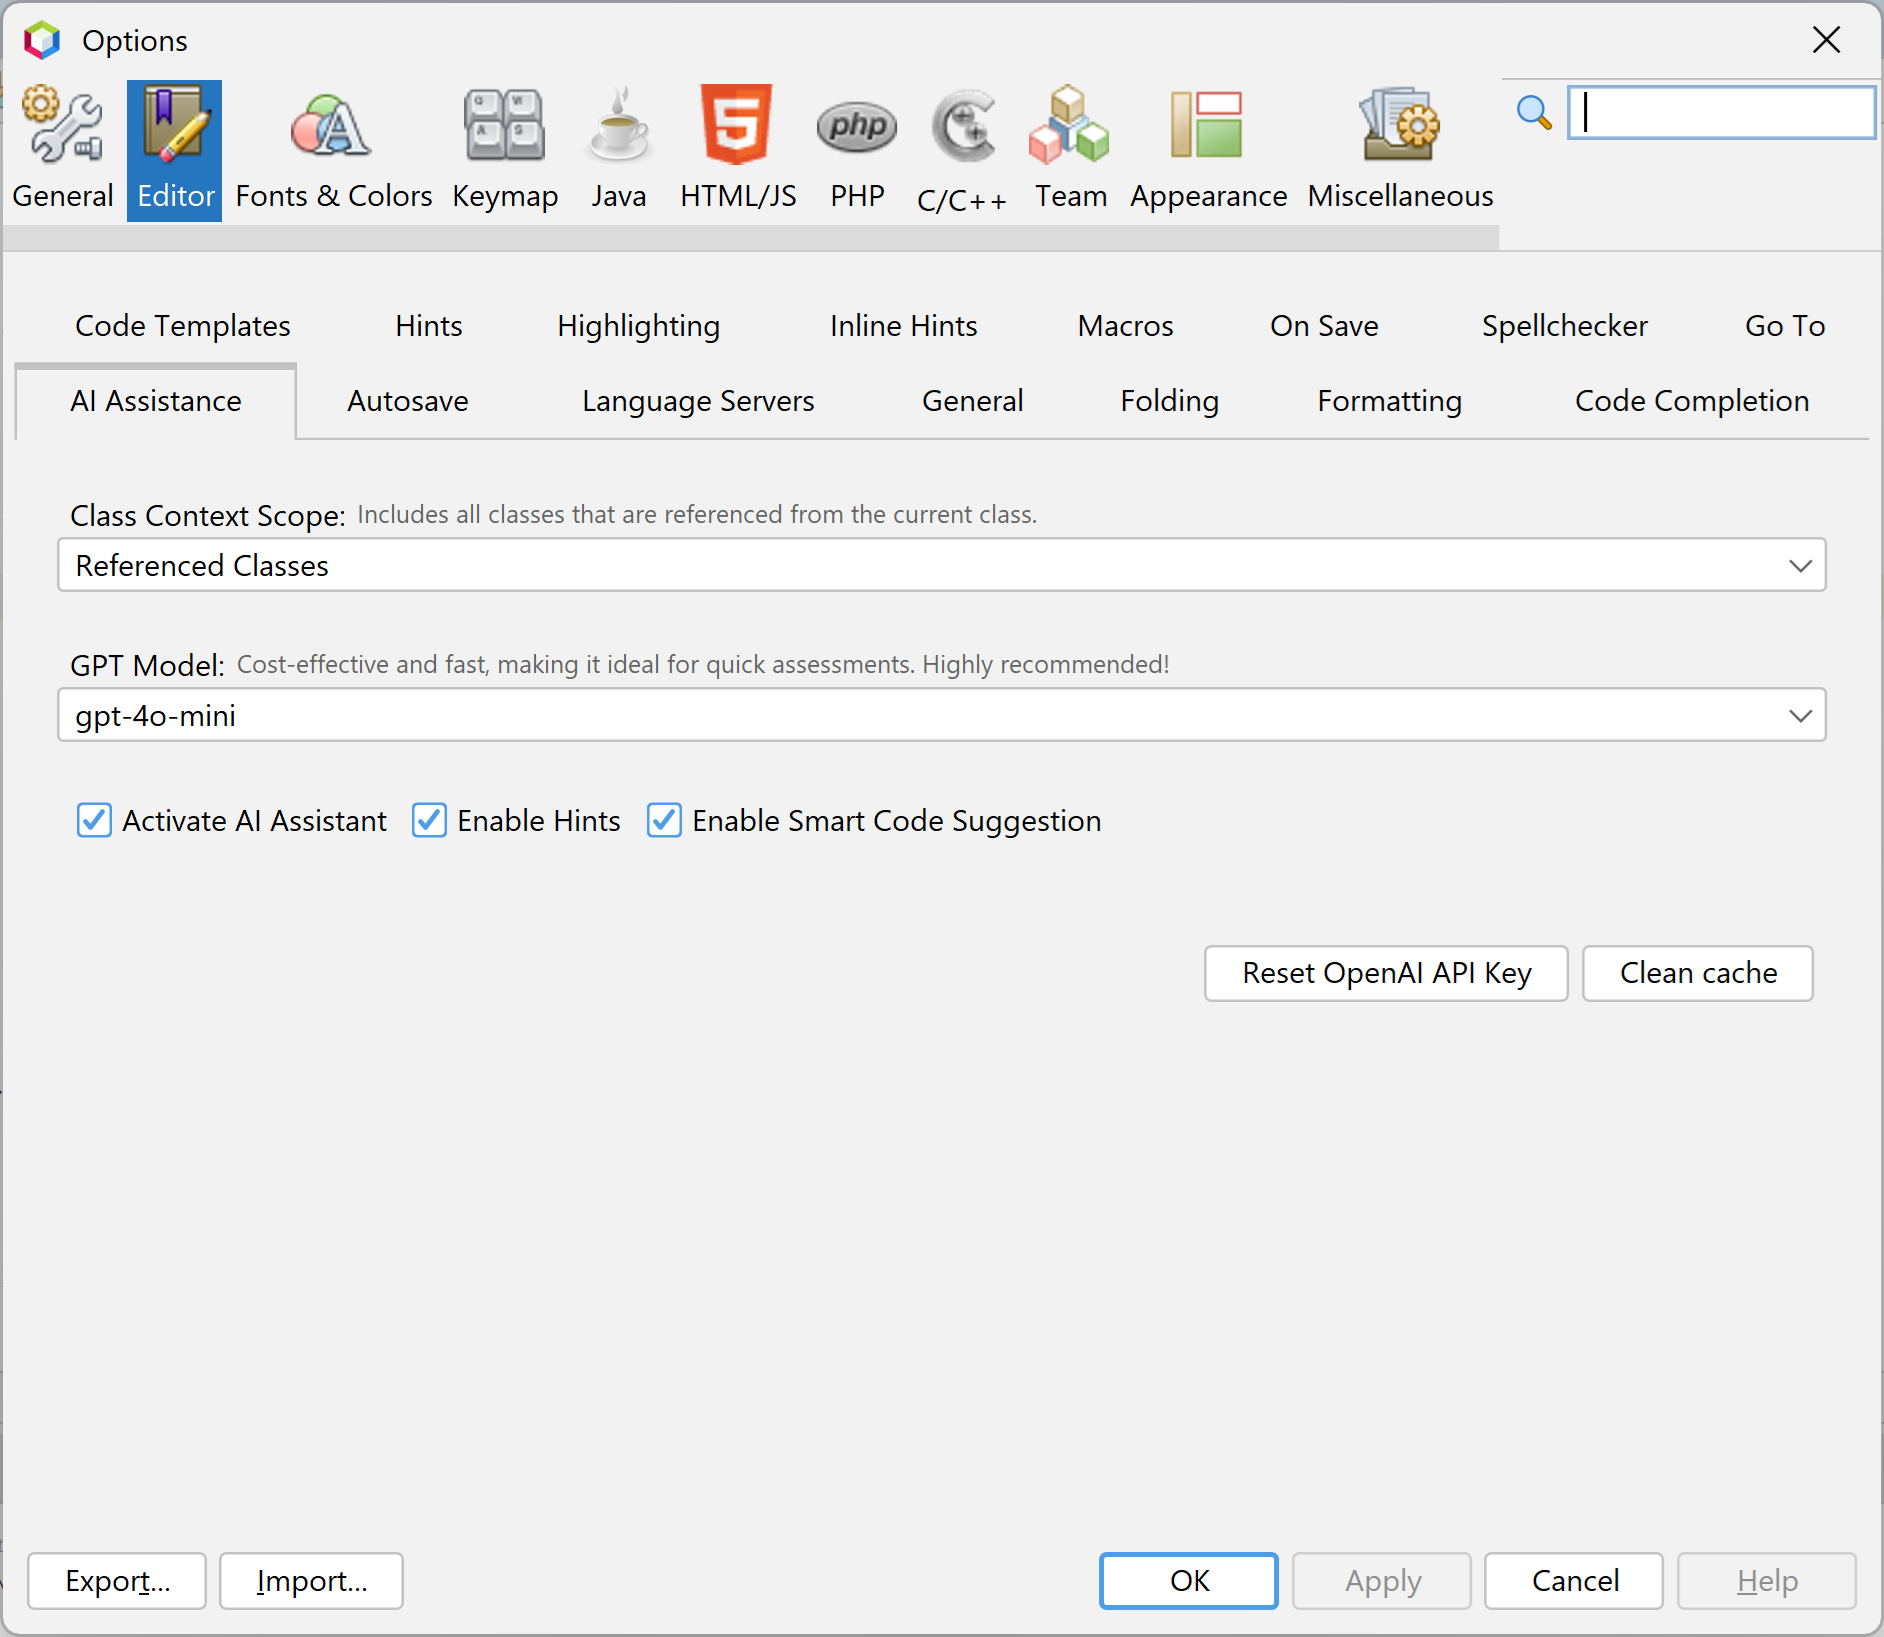
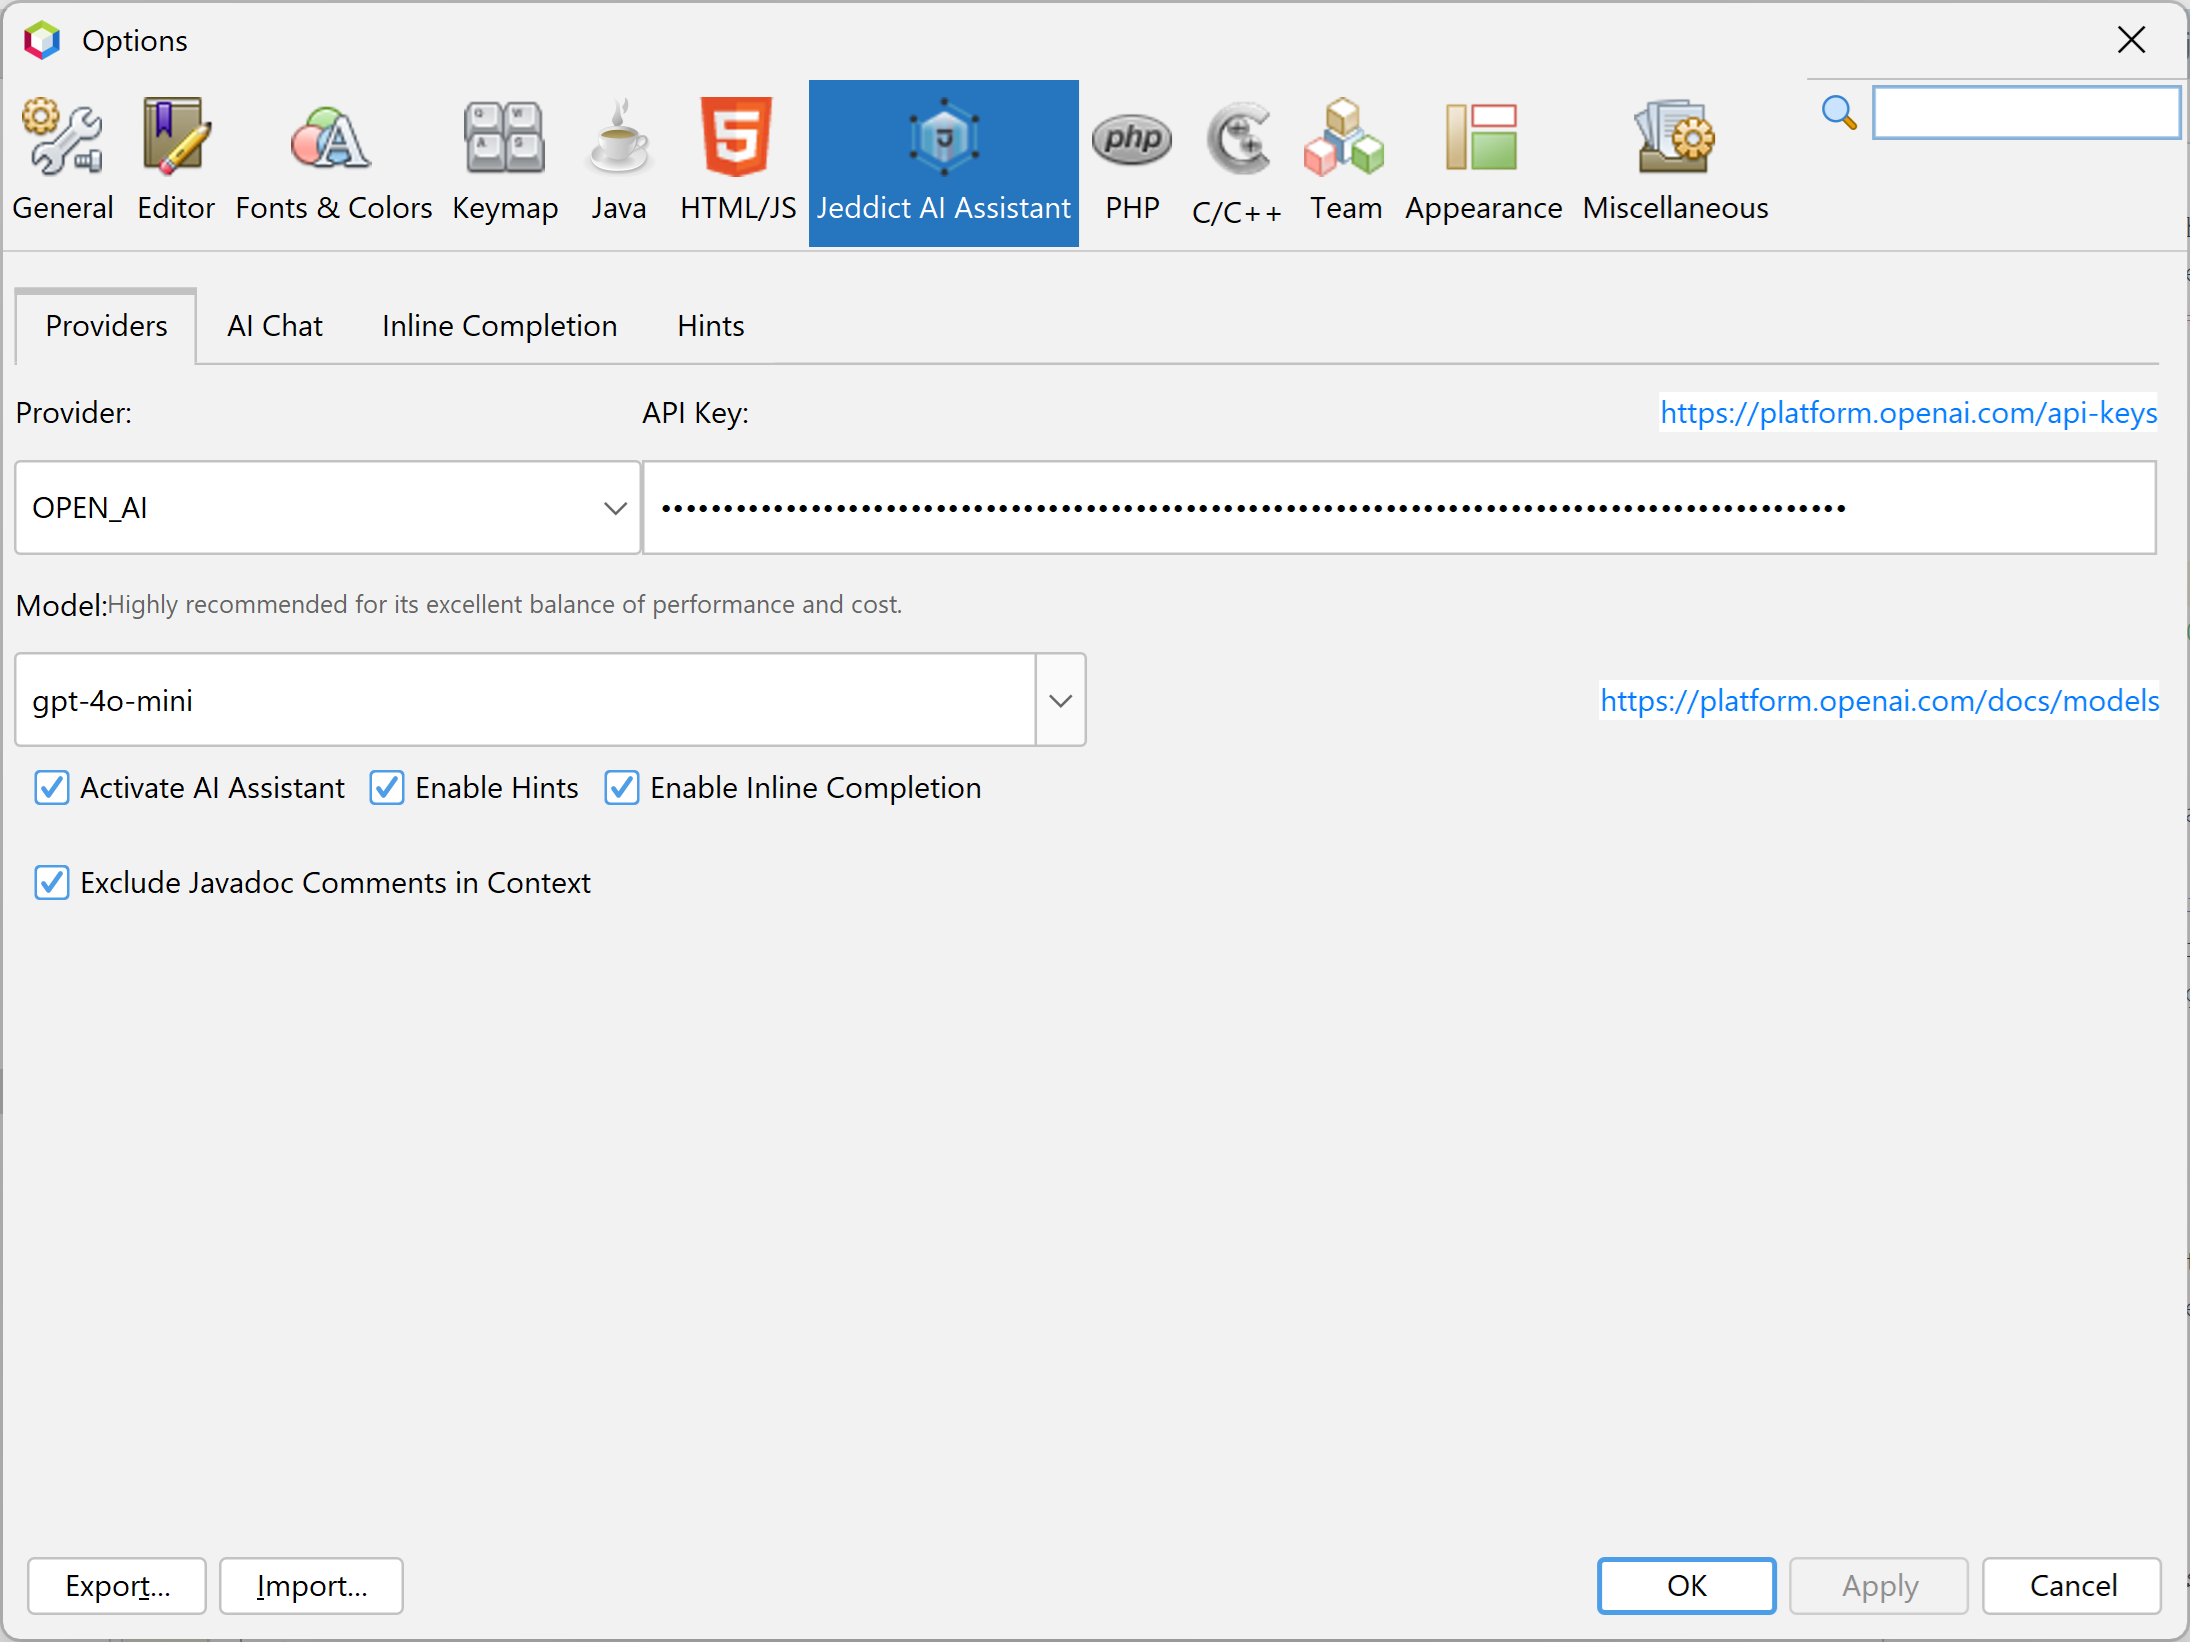
Jeddict AI Assistant settings docs for v1.8

diff --git a/tutorial/AI.html b/tutorial/AI.html
@@ -11,22 +11,11 @@
         <br>
         Click the link below to access the download page:
     </p><p>
-    <em>Note:</em> This plugin is not included with the bundled Jeddict plugin nor does it depend on it. You will need to install it independently to access its features.
-</p><p>
+        <em>Note:</em> This plugin is not included with the bundled Jeddict plugin nor does it depend on it. You will need to install it independently to access its features.
+    </p><p>
         <a href="https://plugins.netbeans.apache.org/catalogue/?id=103" class="btn btn-primary">Download Now</a>
     </p>
 
-    <h3>Configuration</h3>
-    <p>The plugin supports configurable AI models and keys, allowing developers to seamlessly integrate their OpenAI accounts. The plugin searches for the API key and model in both environment variables and system properties, ensuring flexibility in how the integration is managed.</p>
-    <p>Here are the supported configurations:</p>
-    <ul>
-        <li><strong>"OPENAI_API_KEY"</strong> environment variable to set the OpenAI API key.</li>
-        <li>Alternatively, <strong>"openai.api.key"</strong> system property to set the OpenAI API key.</li>
-        <li><strong>"OPENAI_MODEL"</strong> environment variable to set the OpenAI model.</li>
-        <li>Alternatively, <strong>"openai.model"</strong> system property also allows setting the OpenAI model.</li>
-    </ul>
-    <p>If the OpenAI API key is not explicitly configured via environment variables or system properties, the plugin will first check the user preferences for previously stored values. If the API key is still not found, the plugin will <b>prompt the user to enter the API key manually through an input dialog</b>. The entered API key will be saved in preferences for future use, ensuring a seamless experience during subsequent sessions.</p>
-    <p>By default, if no specific model is configured via environment variables or system properties, the plugin will use the <strong>gpt-4o-mini</strong> model as a fallback, ensuring that the functionality remains available even without explicit user configuration.</p>
 
 
 
@@ -51,14 +40,14 @@
     <div class="mb-4">
         <h4>Javadoc Creation</h4>
         <p>Automatically generate Javadoc for any method, class, or interface using AI assistance, ensuring comprehensive and well-structured documentation based on the code context.</p>
-        <p><strong>How to use:</strong> Highlight any class and press the hint: <em>"AI: Create Javadoc for {0} using assistance"</em></p>
+        <p><strong>How to use:</strong> Highlight any class and press the hint: <em>"AI: Create Javadoc using assistance"</em></p>
         <img src="jeddict-ai/resource/2-AI-powered%20Javadoc%20Creation.gif" alt="Javadoc Creation" class="feature-img" width="800" />
     </div>
 
     <div class="mb-4">
         <h4>Javadoc Improvement</h4>
         <p>Improve and enhance existing Javadoc comments by leveraging AI suggestions, ensuring clarity, accuracy, and best practices.</p>
-        <p><strong>How to use:</strong> Highlight any class and press the hint: <em>"AI: Enhance existing Javadoc for {0}"</em></p>
+        <p><strong>How to use:</strong> Highlight any class and press the hint: <em>"AI: Enhance existing Javadoc"</em></p>
         <img src="jeddict-ai/resource/3-AI-enhanced%20Javadoc%20Improvement.gif" alt="Javadoc Improvement" class="feature-img" width="800" />
     </div>
 
@@ -97,35 +86,98 @@
         <img src="jeddict-ai/resource/8-AI%20Learn%20about%20Class%20and%20ASK%20Query.gif" alt="Learn about Class" class="feature-img" width="800" />
     </div>
 
-    <div class="mb-4">
-        <h4>Ask Query about Class</h4>
-        <p>Ask specific questions about a class to receive detailed answers, helping to clarify usage, functionality, and best practices.</p>
-        <p><strong>How to use:</strong> Highlight the class name and press the hint: <em>"AI: Ask query about Class"</em></p>
-    </div>
-
     <br/><br/><br/>
     <div class="mb-4">
-        <h2>Jeddict AI Settings Panel </h2>
-        <p>You can access the Jeddict AI settings panel from the application's main settings or configuration menu, typically found under <strong>Tools > Options > Editor > Jeddict AI Assistance</strong></p>
-        <img src="jeddict-ai/resource/Settings.png" alt="Settings" class="feature-img" width="600" />
+        <h1>Jeddict AI Settings Panel </h1>
+        <p>You can access the Jeddict AI settings panel from the application's main settings or configuration menu, typically found under <strong>Tools > Options > Jeddict AI Assistant</strong></p>
     </div>
+
+    <br/><br/>
+    <h2>Providers and Global settings</h2>
+    <img src="jeddict-ai/resource/Settings.png" alt="Settings" class="feature-img" width="600" />
+
     <div class="mb-4">
-        <h4>Class Context Scope</h4>
-        <p>In the settings, you can configure the Class Context Scope to define the range of classes that the AI Assistant will analyze. The options include:</p>
+        <h4>Providers</h4>
+        <p>The plugin supports configurable AI models and keys, allowing developers to seamlessly integrate their OpenAI accounts and other providers. Ensure you have the required API key and model based on the selected provider for optimal integration.</p>
+        <p>Supported providers include:</p>
         <ul>
-            <li><strong>Current Class</strong>: Focuses on the current class being analyzed.</li>
-            <li><strong>Referenced Classes</strong>: Includes all classes that are referenced from the current class.</li>
-            <li><strong>Current Package</strong>: Examines all classes within the current package, as well as those referenced by the current class.</li>
-            <li><strong>Entire Project</strong>: Covers all classes in the entire project.</li>
+            <li><strong>OPEN_AI</strong>: <a href="https://platform.openai.com/docs/models">Models Documentation</a>, <a href="https://platform.openai.com/api-keys">API Keys</a></li>
+            <li><strong>CUSTOM_OPEN_AI</strong>: OpenAI configurations with a custom provider URI.</li>
+            <li><strong>GOOGLE</strong>: <a href="https://ai.google.dev/gemini-api/docs/models/gemini">Models Documentation</a>, <a href="https://console.cloud.google.com/apis/credentials">API Keys</a></li>
+            <li><strong>DEEPINFRA</strong>: <a href="https://deepinfra.com/models">Models Documentation</a>, <a href="https://deepinfra.com/dash/api_keys">API Keys</a></li>
+            <li><strong>DEEPSEEK</strong>: <a href="https://api-docs.deepseek.com/quick_start/pricing">API Documentation</a>, <a href="https://platform.deepseek.com/api_keys">API Keys</a></li>
+            <li><strong>GROQ</strong>: <a href="https://console.groq.com/docs/models">Models Documentation</a>, <a href="https://console.groq.com/keys">API Keys</a></li>
+            <li><strong>MISTRAL</strong>: <a href="https://docs.mistral.ai/getting-started/models/models_overview/">Models Documentation</a>, <a href="https://console.mistral.ai/api-keys/">API Keys</a></li>
+            <li><strong>ANTHROPIC</strong>: <a href="https://docs.anthropic.com/en/docs/about-claude/models">Models Documentation</a>, <a href="https://console.anthropic.com/settings/keys">API Keys</a></li>
+            <li><strong>OLLAMA</strong>: <a href="https://ollama.com/models">Models Documentation</a></li>
+            <li><strong>LM_STUDIO</strong>: <a href="https://lmstudio.ai/models">Models Documentation</a></li>
+            <li><strong>GPT4ALL</strong>: <a href="https://docs.gpt4all.io/gpt4all_desktop/models.html">Models Documentation</a></li>
         </ul>
     </div>
     <div class="mb-4">
-        <h4>Disabling the AI Assistance</h4>
-        <p>If you wish to disable the Jeddict AI Assistant, go to <strong>Tools > Options > Editor > AI Assistance</strong> and uncheck the <strong>Activate AI Assistance</strong> checkbox.</p>
-        <p>Alternatively, if you want to bypass AI assistance while it is activated, you can use <code><strong>CTRL+ALT+SPACE</strong></code> instead of <code><strong>CTRL+SPACE</strong></code> for inline suggestions.</p>
+        <h4>Disabling AI Assistance</h4>
+        <p>If you wish to disable the Jeddict AI Assistant, navigate to <strong>Tools > Options > Editor > AI Assistance</strong> and uncheck the <strong>Activate AI Assistance</strong> checkbox.</p>
+        <p>To bypass AI assistance while it remains activated, use <code><strong>CTRL+ALT+SPACE</strong></code> instead of <code><strong>CTRL+SPACE</strong></code> for inline suggestions.</p>
     </div>
 
-    
+    <br/><br/>
+    <h2>AI Chat Settings</h2>
+    <img src="jeddict-ai/resource/AIChatSettings.png" alt="AI Chat Settings" class="feature-img" width="600" />
+
+    <div class="mb-4">
+        <h4>File Extensions to Include in Context</h4>
+        <p>The <strong>File Extensions to Include in Context</strong> setting allows you to specify which file types the AI assistant should consider when analyzing your codebase. This helps provide more accurate suggestions based on the specified file types.</p>
+        <p>You can enter multiple file extensions separated by commas. For example:</p>
+        <pre>java, php, jsf, kt, groovy, scala, xml, json, yaml, yml, properties, txt, md, js, ts, css, scss, html, xhtml, sh, bat, sql, jsp, rb, cs, go, swift, rs, c, cpp, h, py</pre>
+    </div>
+
+    <div class="mb-4">
+        <h4>Directories and Files to Exclude from Context</h4>
+        <p>The <strong>Directories and Files to Exclude from Context</strong> setting allows you to specify specific directories or files that the AI assistant should ignore during its analysis. This is particularly useful to enhance performance and accuracy by concentrating on the most relevant sections of your codebase.</p>
+        <p>This setting is applicable at the Project Level within the AI Chat. To optimize results, please list the directories and files you wish to exclude, ensuring that the AI assistant focuses on the most pertinent data for your project.</p>
+    </div>
+
+    <br/><br/>
+    <h2>Inline Completion Settings</h2>
+    <img src="jeddict-ai/resource/InlineCompletionSettings.png" alt="Inline Completion Settings" class="feature-img" width="600" />
+
+    <div class="mb-4">
+        <h4>Context Scope (Default)</h4>
+        <p>In the settings, configure the Context Scope to define the range of classes the AI Assistant will analyze. Options include:</p>
+        <ul>
+            <li><strong>Current Class</strong>: Focus on the current class being analyzed.</li>
+            <li><strong>Referenced Classes</strong>: Include all classes referenced from the current class.</li>
+            <li><strong>Current Package</strong>: Examine all classes within the current package, as well as those referenced by the current class.</li>
+            <li><strong>Entire Project</strong>: Cover all classes in the entire project.</li>
+        </ul>
+    </div>
+
+    <div class="mb-4">
+        <h4>Context Scope for Variable Name, Method Name, String Literals</h4>
+        <p>Configure the Context Scope specifically for naming variables, methods, or generating string/text blocks, as these typically do not require a large context scope. Options include:</p>
+        <ul>
+            <li><strong>Current Class</strong>: Focus on the current class being analyzed.</li>
+            <li><strong>Referenced Classes</strong>: Include all classes referenced from the current class.</li>
+            <li><strong>Current Package</strong>: Examine all classes within the current package, as well as those referenced by the current class.</li>
+            <li><strong>Entire Project</strong>: Cover all classes in the entire project.</li>
+        </ul>
+    </div>
+
+    <div class="mb-4">
+        <h4>Show Snippet with Description</h4>
+        <p>Enable the option to show a description alongside inline code snippets for improved understanding of AI-generated suggestions. This helps explain the reasoning behind suggested code.</p>
+        <img src="jeddict-ai/resource/ShowSnippetWithDescription.png" alt="Show Snippet with Description" class="feature-img" width="1000" />
+    </div>
+
+    <br/><br/>
+    <h2>Hints</h2>
+    <img src="jeddict-ai/resource/HintsSettings.png" alt="Hints Settings" class="feature-img" width="600" />
+
+    <div class="mb-4">
+        <h4>Generate Test Case Prompt</h4>
+        <p>Type the prompt for generating test cases based on your class context or project. For example: <code>Generate TestNG tests with Arquillian</code></p>
+    </div>
+
     <h3>Request a Feature or Report an Issue</h3>
     <p>
         We value your feedback! If you have suggestions for new features or encounter any issues while using the Jeddict AI Assistant, please let us know. You can request features or report problems by visiting our GitHub repository:
@@ -133,8 +185,6 @@
     <p>
         <a href="https://github.com/jeddict/jeddict/issues" class="btn btn-secondary">Report an Issue</a>
     </p>
-
-
 </div>
 
 
